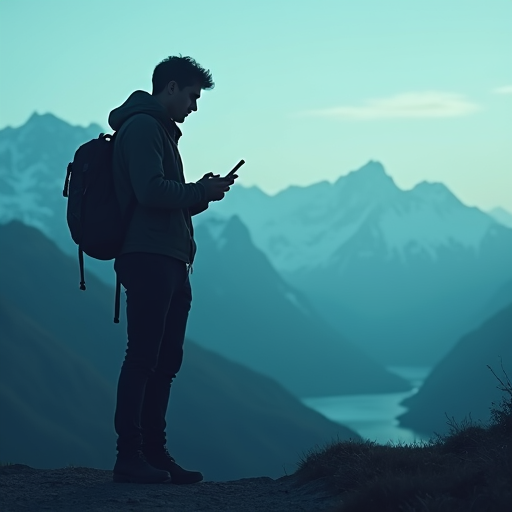
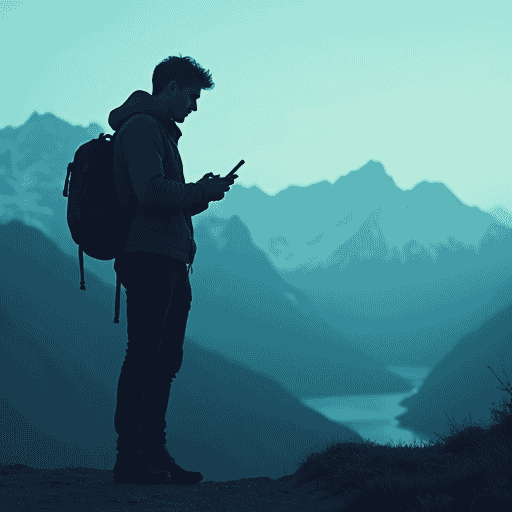
chore: optimize images for slower connections

diff --git a/src/app/page.tsx b/src/app/page.tsx
@@ -231,8 +231,15 @@ export default async function LandingPage() {
             </div>
             <div className="mx-auto w-full max-w-sm space-y-2">
               <form className="flex py-2 mx-auto justify-center items-center">
-                <Suspense fallback={<GetStartedButton label="Get started" />}>
-                  <DashboardOrGetStartedButton label="Get started" />
+                <Suspense
+                  fallback={
+                    <GetStartedButton variant="secondary" label="Get started" />
+                  }
+                >
+                  <DashboardOrGetStartedButton
+                    variant="secondary"
+                    label="Get started"
+                  />
                 </Suspense>
               </form>
               <p className="text-xs">
